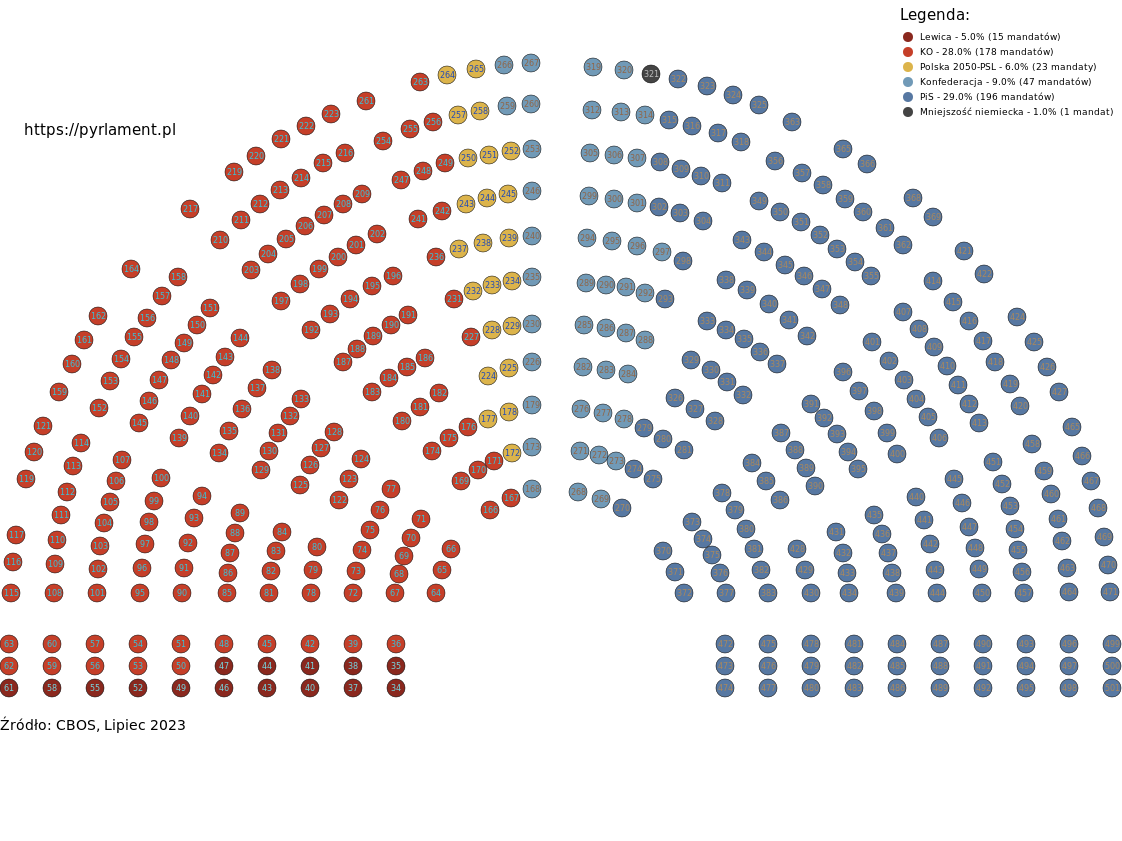
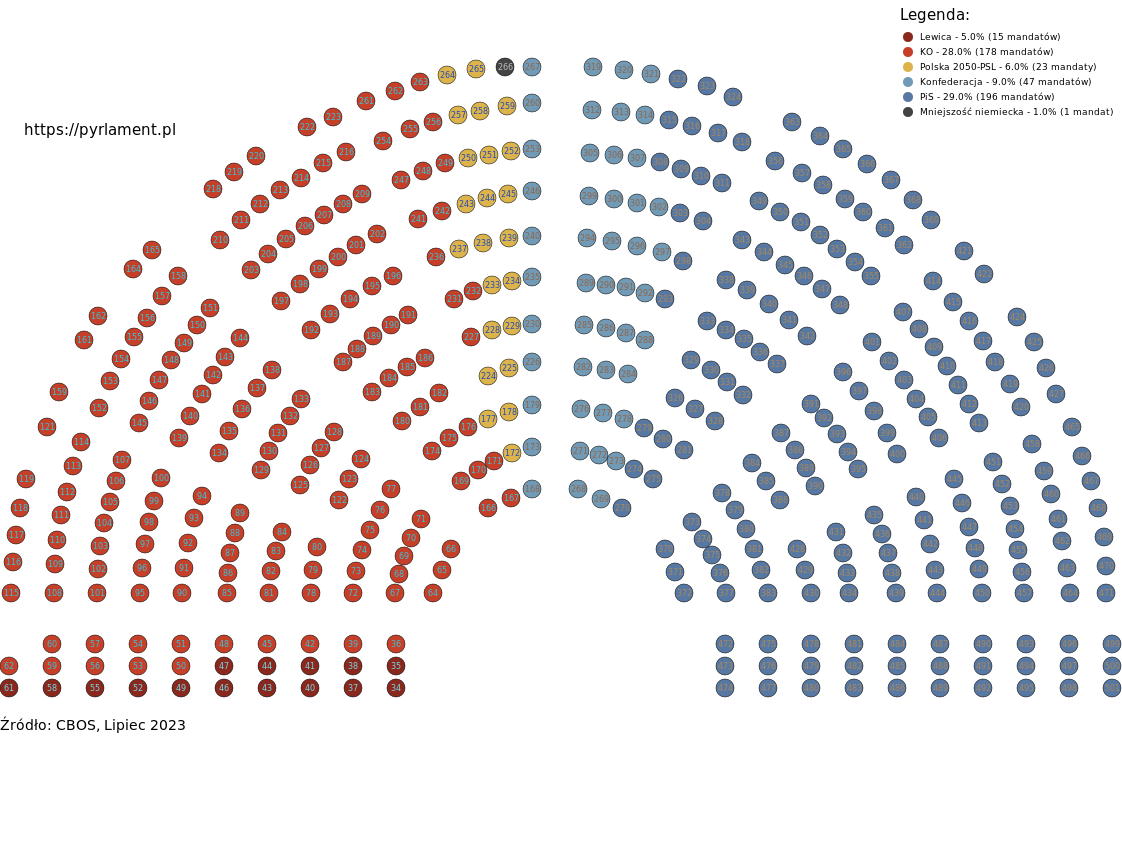
Fixing seat placement

diff --git a/pyrlament/generator.py b/pyrlament/generator.py
@@ -27,10 +27,10 @@ class Seat(BaseModel):
 
 class SeatsGenerator:
     _left_center_sector = [
-        (436, 543, 64),
+        (433, 543, 64),
         (442, 520, 65),
         (451, 499, 66),
-        (395, 543, 67),
+        (391, 543, 67),
         (399, 524, 68),
         (404, 506, 69),
         (411, 488, 70),
@@ -79,14 +79,15 @@ class SeatsGenerator:
         (61, 465, 111),
         (67, 442, 112),
         (73, 416, 113),
-        (81, 393, 114),
+        (81, 392, 114),
         (11, 543, 115),
         (13, 512, 116),
         (16, 485, 117),
         (20, 458, 118),
         (26, 429, 119),
-        (34, 402, 120),
-        (43, 376, 121),
+        (36, 402, 120),
+        (47, 377, 121),
+        # (43, 376, 121),
     ]
 
     seats_order = []

diff --git a/points_align.py b/points_align.py
@@ -1,0 +1,32 @@
+"""
+This file is usable for debugging.
+
+TODO: change it to a unit tests
+
+"""
+
+from pyrlament import SeatsGenerator
+
+generator = SeatsGenerator(parties=[])
+center = generator.get_center()
+
+def ggg(c, x):
+    for s in c:
+        if s[2] == x:
+            return s
+
+l1 = [168, 173, 179, 226, 230, 235, 240, 246, 253, 260, 267]
+l2 = [268, 271, 276, 282, 285, 289, 294, 299, 305, 312, 319]
+
+for x in range(len(l1)):
+    seat1 = ggg(center, l1[x])
+    seat2 = ggg(center, l2[x])
+    if seat1[1] != seat2[1]:
+        print(seat1, seat2)
+
+print("---")
+
+for x in [372, 377, 383, 430, 434, 439, 444, 450, 457, 464, 471]:
+    seat = ggg(center, x)
+    if seat[1] != 543:
+        print(seat)
